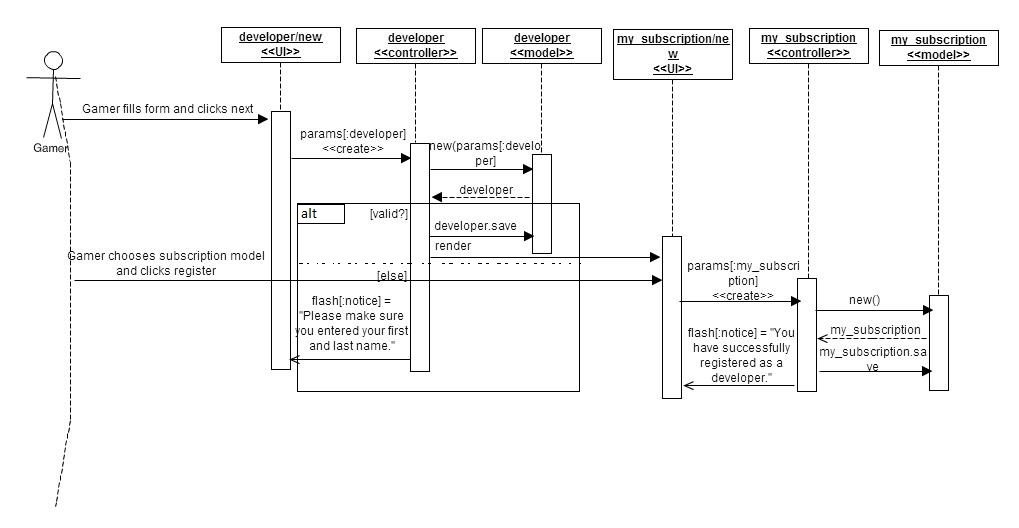
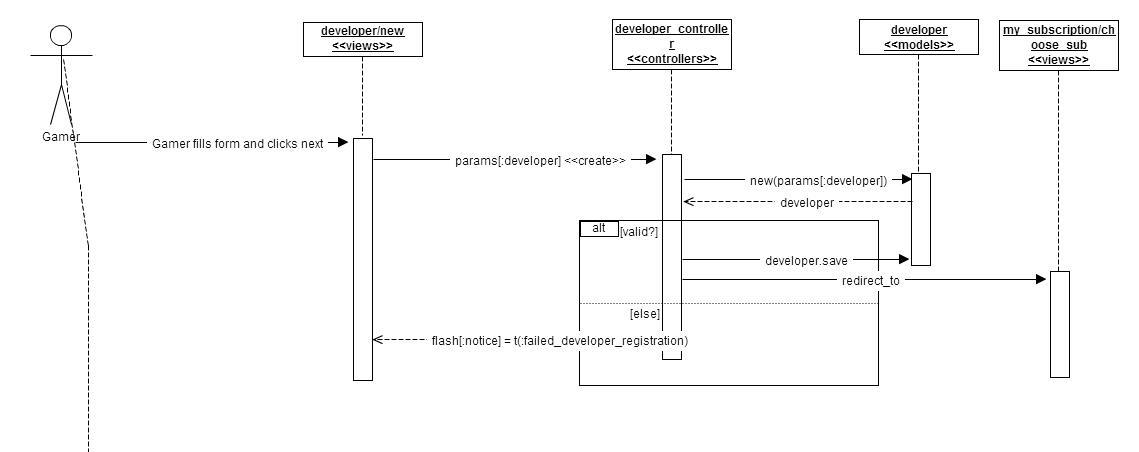
[Issue 85] [WIP] modifies UML of developer registration

diff --git a/arability/app/controllers/developer_controller.rb b/arability/app/controllers/developer_controller.rb
@@ -23,10 +23,11 @@ class DeveloperController < ApplicationController
 # description:
 #   creates new developer using parameters from registration form and renders my_subscription#new
 # params:
-#   first_name, last_name
+#   parameters passed from form(params[:developer]):first_name, last_name
 # success:
-#   developer created successfully
+#   developer created successfully, redirects to choose subscription page
 # failure:
+#   gamer not signed in, data entered is invalid
   def create
     if Developer.find_by_gamer_id(current_gamer.id) != nil
       flash[:notice] = t(:already_registered_developer)
